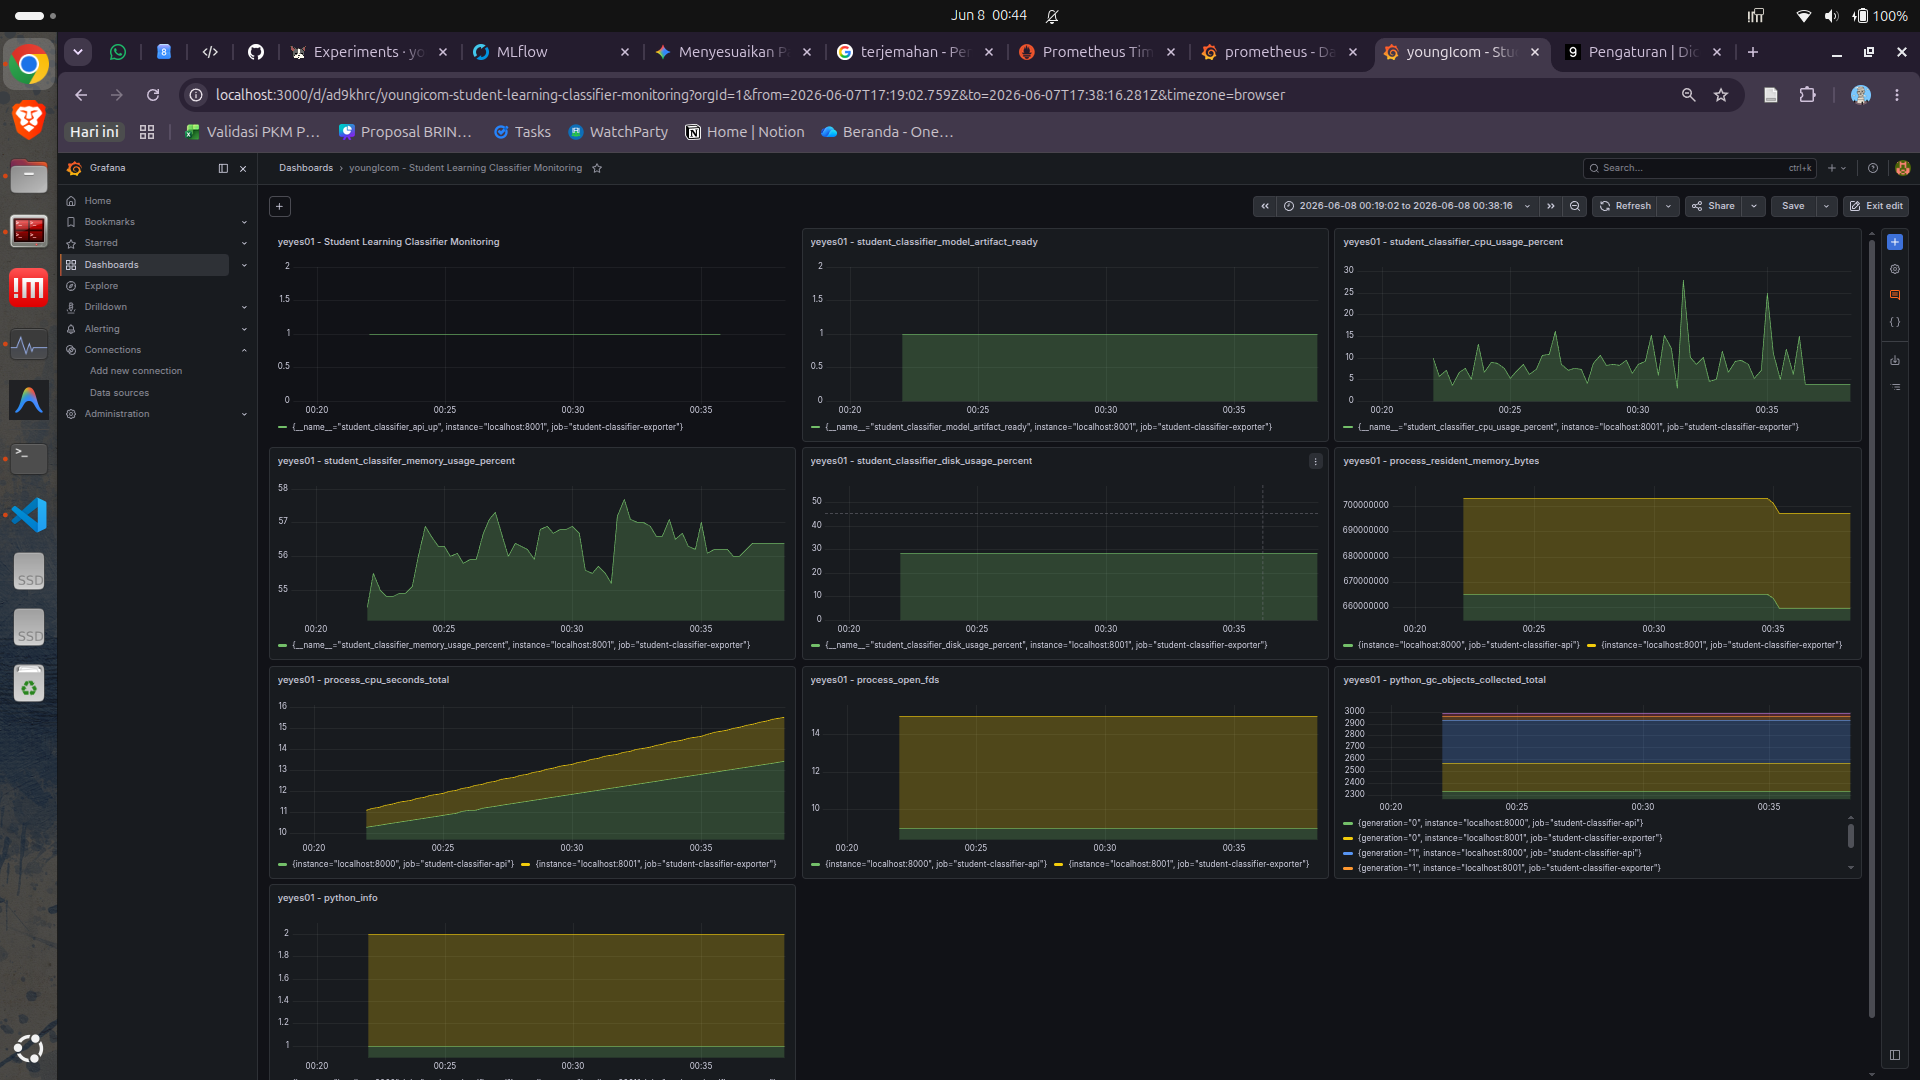
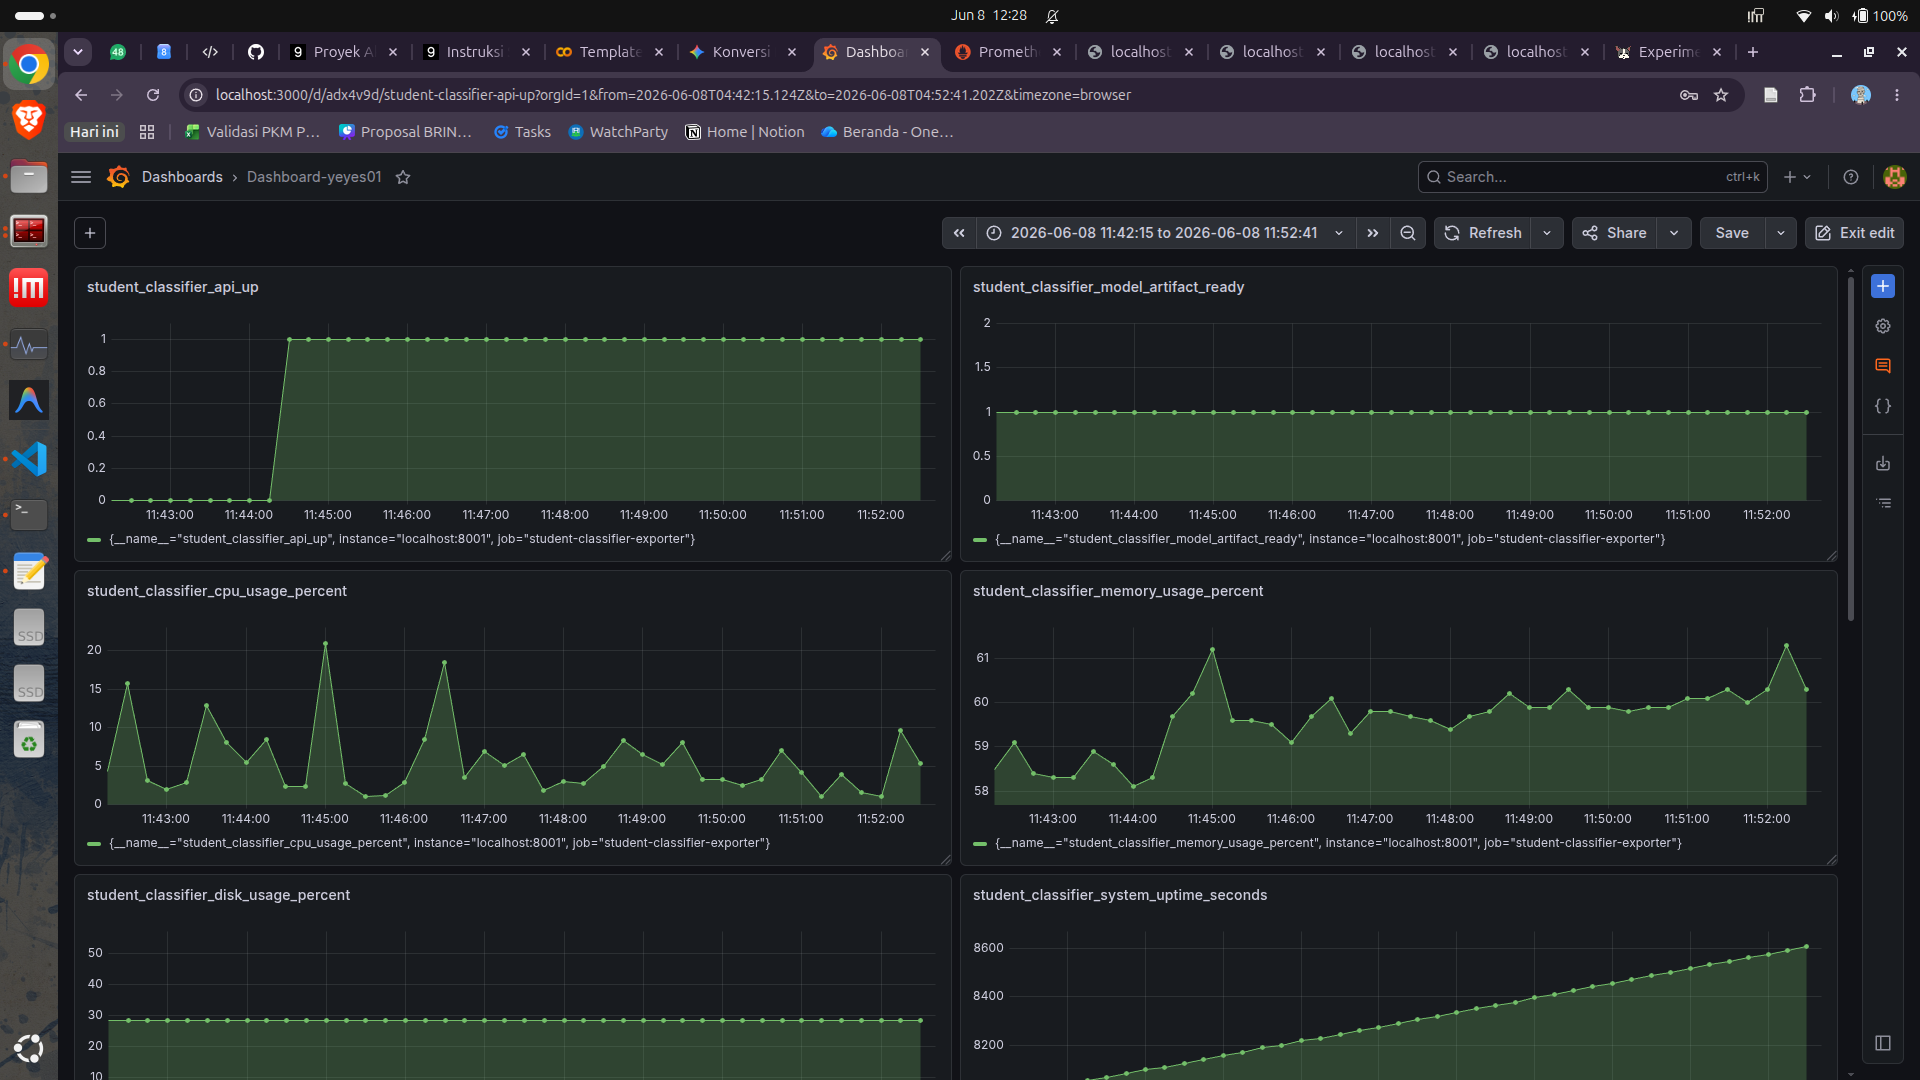
Dokumentasi gambar

diff --git a/Monitoring dan Logging/3.prometheus_exporter.py b/Monitoring dan Logging/3.prometheus_exporter.py
@@ -20,6 +20,9 @@ API_UP = Gauge("student_classifier_api_up", "Whether inference API health endpoi
 MODEL_ARTIFACT_READY = Gauge("student_classifier_model_artifact_ready", "Whether model artifacts are present")
 SYSTEM_UPTIME_SECONDS = Gauge("student_classifier_system_uptime_seconds", "System uptime in seconds")
 SYSTEM_BOOT_TIME_SECONDS = Gauge("student_classifier_system_boot_time_seconds", "System boot time as Unix timestamp")
+LOAD_AVERAGE_1M = Gauge("student_classifier_load_average_1m", "System load average over 1 minute")
+AVAILABLE_MEMORY_BYTES = Gauge("student_classifier_available_memory_bytes", "Available system memory in bytes")
+DISK_FREE_BYTES = Gauge("student_classifier_disk_free_bytes", "Free disk space in bytes")
 
 
 def model_artifacts_ready() -> bool:
@@ -30,7 +33,15 @@ def model_artifacts_ready() -> bool:
 def collect() -> None:
     CPU_USAGE.set(psutil.cpu_percent(interval=None))
     MEMORY_USAGE.set(psutil.virtual_memory().percent)
-    DISK_USAGE.set(psutil.disk_usage("/").percent)
+    disk_usage = psutil.disk_usage("/")
+    virtual_memory = psutil.virtual_memory()
+    DISK_USAGE.set(disk_usage.percent)
+    AVAILABLE_MEMORY_BYTES.set(virtual_memory.available)
+    DISK_FREE_BYTES.set(disk_usage.free)
+    try:
+        LOAD_AVERAGE_1M.set(os.getloadavg()[0])
+    except (AttributeError, OSError):
+        LOAD_AVERAGE_1M.set(0)
     MODEL_ARTIFACT_READY.set(1 if model_artifacts_ready() else 0)
     boot_time = psutil.boot_time()
     SYSTEM_BOOT_TIME_SECONDS.set(boot_time)

diff --git a/Workflow_CI_Yesaya/prometheus_exporter.py b/Workflow_CI_Yesaya/prometheus_exporter.py
@@ -20,6 +20,9 @@ API_UP = Gauge("student_classifier_api_up", "Whether inference API health endpoi
 MODEL_ARTIFACT_READY = Gauge("student_classifier_model_artifact_ready", "Whether model artifacts are present")
 SYSTEM_UPTIME_SECONDS = Gauge("student_classifier_system_uptime_seconds", "System uptime in seconds")
 SYSTEM_BOOT_TIME_SECONDS = Gauge("student_classifier_system_boot_time_seconds", "System boot time as Unix timestamp")
+LOAD_AVERAGE_1M = Gauge("student_classifier_load_average_1m", "System load average over 1 minute")
+AVAILABLE_MEMORY_BYTES = Gauge("student_classifier_available_memory_bytes", "Available system memory in bytes")
+DISK_FREE_BYTES = Gauge("student_classifier_disk_free_bytes", "Free disk space in bytes")
 
 
 def model_artifacts_ready() -> bool:
@@ -30,7 +33,15 @@ def model_artifacts_ready() -> bool:
 def collect() -> None:
     CPU_USAGE.set(psutil.cpu_percent(interval=None))
     MEMORY_USAGE.set(psutil.virtual_memory().percent)
-    DISK_USAGE.set(psutil.disk_usage("/").percent)
+    disk_usage = psutil.disk_usage("/")
+    virtual_memory = psutil.virtual_memory()
+    DISK_USAGE.set(disk_usage.percent)
+    AVAILABLE_MEMORY_BYTES.set(virtual_memory.available)
+    DISK_FREE_BYTES.set(disk_usage.free)
+    try:
+        LOAD_AVERAGE_1M.set(os.getloadavg()[0])
+    except (AttributeError, OSError):
+        LOAD_AVERAGE_1M.set(0)
     MODEL_ARTIFACT_READY.set(1 if model_artifacts_ready() else 0)
     boot_time = psutil.boot_time()
     SYSTEM_BOOT_TIME_SECONDS.set(boot_time)

diff --git a/pyload_contoh.py b/pyload_contoh.py
@@ -1,0 +1,8 @@
+import json
+import pandas as pd
+
+df = pd.read_csv("/home/yesaya/Documents/Pijak Program/proyek_akhir_membangun_sistem_machine_learning/Eksperimen_SML_Yesaya/open_UL_analysis_preprocessing/student_cleaned.csv")
+features = json.load(open("Workflow_CI_Yesaya/artifacts/feature_columns.json"))
+sample = df[features].iloc[0].to_dict()
+payload = {"features": {k: float(v) for k, v in sample.items()}}
+print(json.dumps(payload))